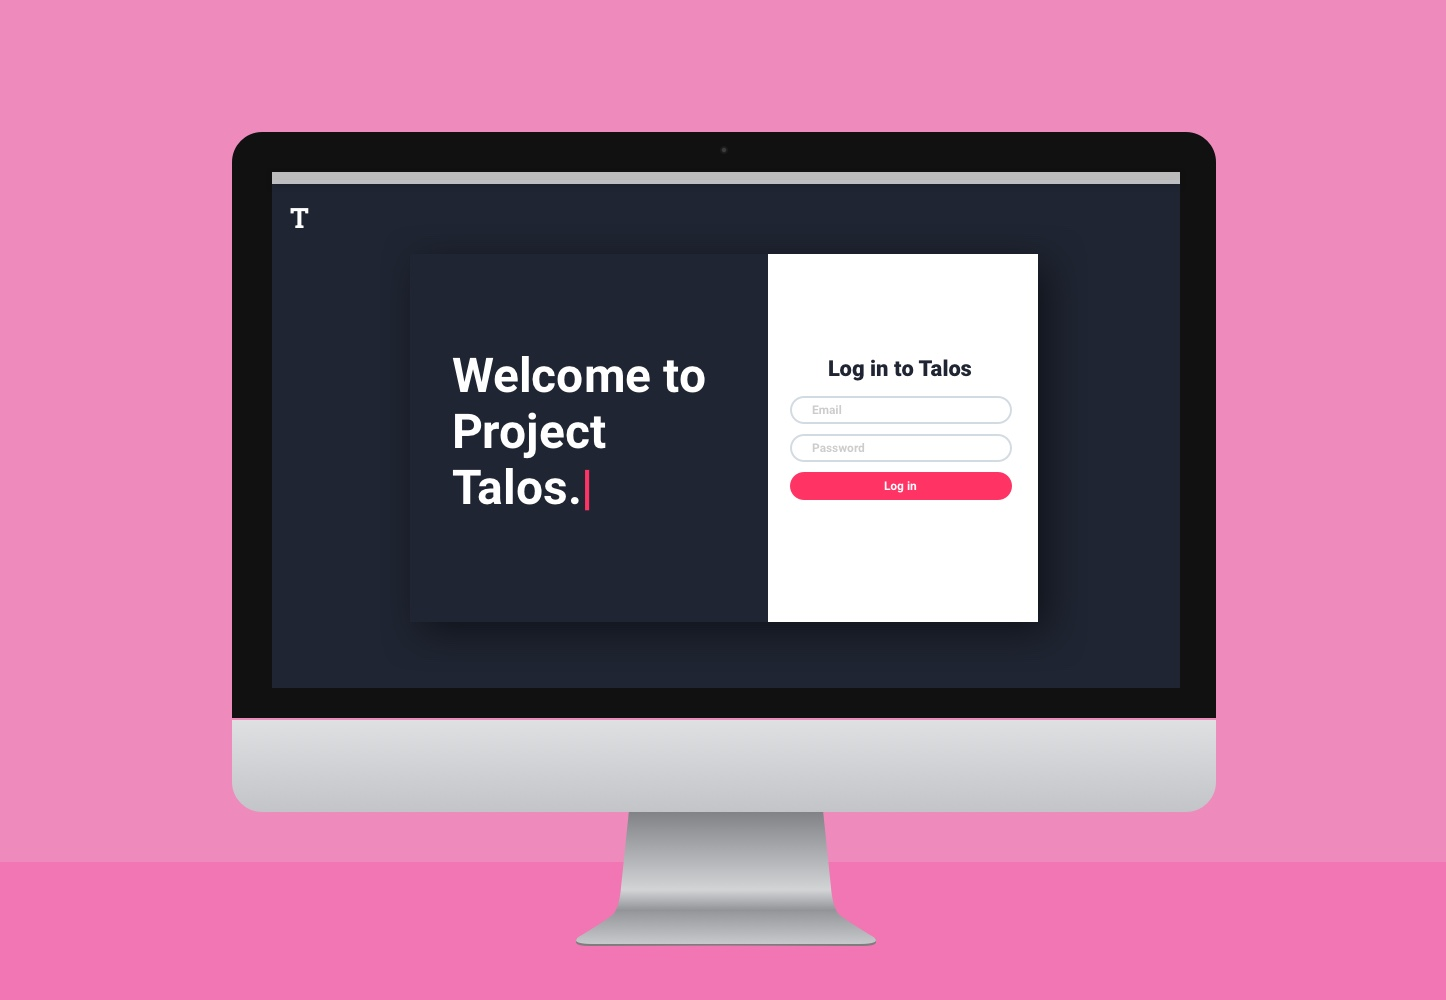
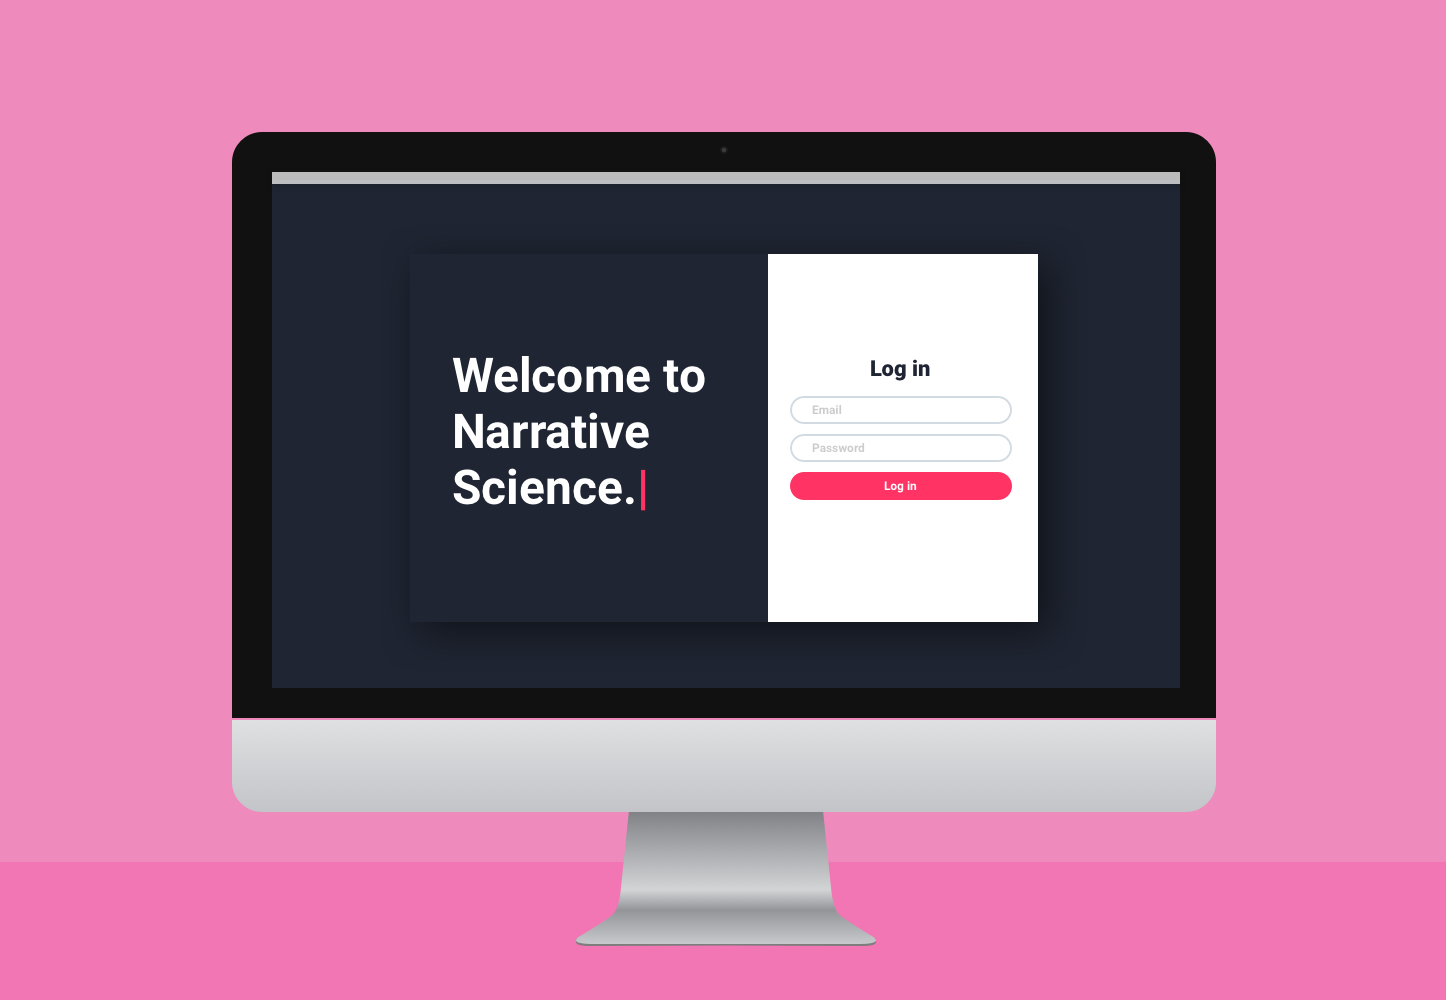
yes

Changed region(s): [[0.3112, 0.403, 0.4668, 0.527], [0.5913, 0.341, 0.6846, 0.403]]

diff --git a/style.css b/style.css
@@ -581,10 +581,11 @@
   width:1200px;
   z-index:-1;
   top:0px;
+  /*background-color:#E7E8E2;*/
   background-size:cover;
-  background-position:left;
+  background-position: left;
   left:-150px;
-  opacity: .8;
+  opacity: .5;
 }
 
 .accent {
@@ -597,11 +598,11 @@
 }
 
 .gallery__img {
-/*  background-color:#252525;*/
+  /*background-color:#252525;*/
   height:150px;
   margin-left:10px;
   background-size:cover;
-  background-position:left;
+  background-position: left;
 }
 
 /*LG*/

diff --git a/_posts/2018-01-10-talos.md b/_posts/2018-01-10-talos.md
@@ -1,7 +1,7 @@
 ---
 title: Talos
 date: 2018-01-10 00:00:00 Z
-permalink: "/talos/"
+permalink: "/interactivestoryinitiative/"
 categories:
 - user experience research
 - user experience design
@@ -21,7 +21,7 @@ number: 3
 <h4 class="heading heading--regular heading--emphasize">overview</h4>
 <div class="marker-post-heading"></div>
 <p>
-	Data is being collected by companies daily and is an essential component to strategic growth. However, the average business manager does not have the resources to quickly make data-driven decisions. The goal of the Talos initiative is to provide businesses with a self-service tool that uses data to intelligently generate interactive reports at scale. By instantly surfacing key insights in plain language, Talos equips information consumers at every level of an organization with the insights necessary to make data-driven decisions. 
+	Data is being collected by companies daily and is an essential component to strategic growth. However, the average business manager does not have the resources to quickly make data-driven decisions. The goal of this initiative is to provide businesses with a self-service tool that uses data to intelligently generate interactive stories at scale. By instantly surfacing key insights in plain language, Talos equips information consumers at every level of an organization with the insights necessary to make data-driven decisions. 
 </p>
 
 <h4 class="heading heading--regular heading--emphasize post__heading--stacked">my role</h4>

diff --git a/_posts/2018-01-13-sidebar-redesign.md b/_posts/2018-01-13-sidebar-redesign.md
@@ -20,7 +20,7 @@ number: 1
 
 <h4 class="heading heading--regular heading--emphasize">overview</h4>
 <div class="marker-post-heading"></div>
-<p>Quill 3 is a Natural Language Generation (NLG) software that ingests user data and, through user configuration, generates intuitive insights in plain language. The first iteration of the product was completed in early 2016. 
+<p><a href="http://narrativescience.com" target="_blank">Narrative Science</a>'s narrative generation software ingests user data and, through Natural Language Generation (NLG), generates intuitive insights in plain language. The first iteration of the product was completed in early 2016. 
 <br><br>
 Following synthesis of feedback from multiple focus groups and requests to add more robust features and capabilities to the system, the product team identified the need to completely redesign the narrative configuration sidebar. With further engineering input, the team also identified the need to refactor the sidebar code to ensure full scalability across all features. 
 <br><br>
